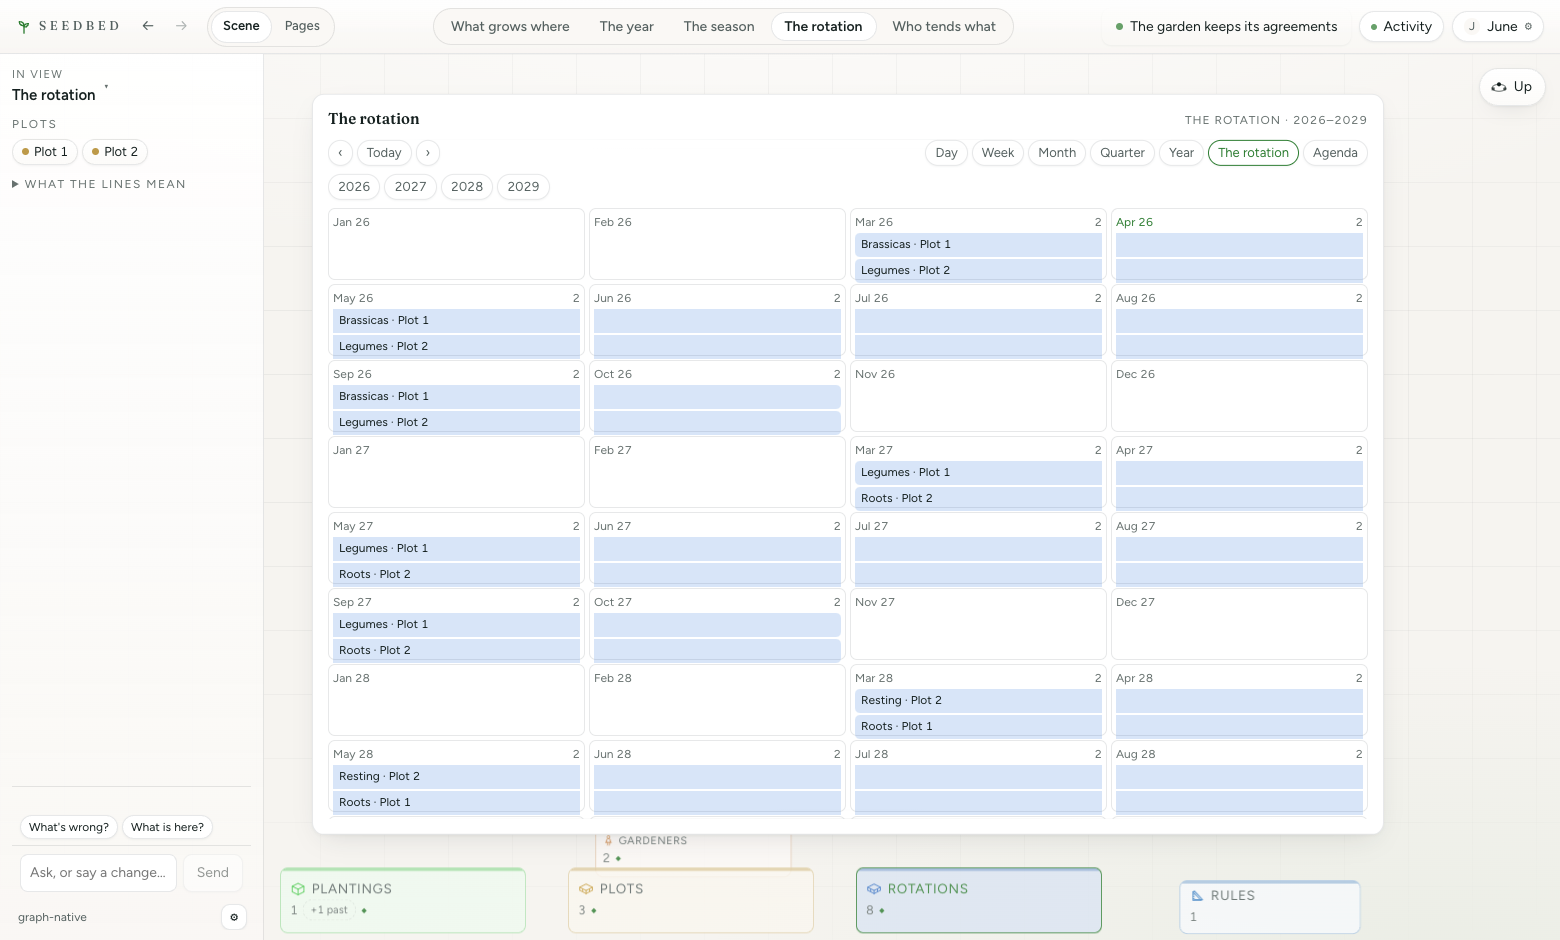
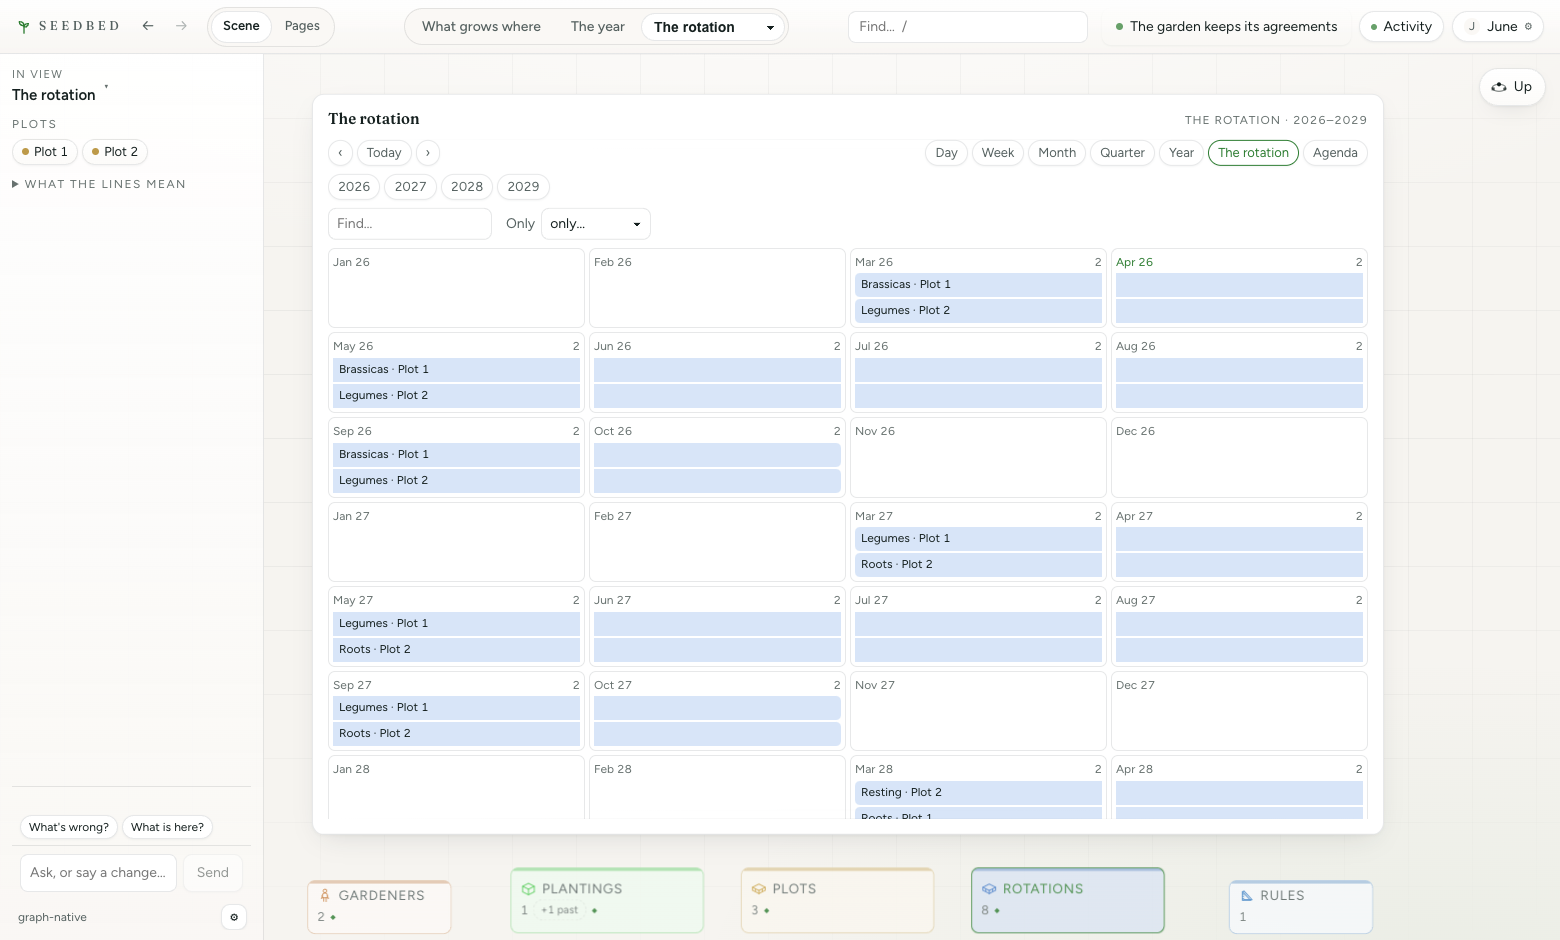
walkthrough: B · the more menu is as wide as what it says

diff --git a/packages/primitives/src/places.tsx b/packages/primitives/src/places.tsx
@@ -56,7 +56,15 @@ export function Places<S extends AnySchema>({ compact = false }: { compact?: boo
       let fit = 0;
       for (let i = 0; i < places.length; i += 1) {
         const next = used + (sizes[i] ?? 0) + (i > 0 ? 2 : 0);
-        const reserve = i < places.length - 1 ? MORE : 0;
+        /*
+         * THE MORE MENU IS AS WIDE AS WHAT IT MAY SAY. Standing on a place it
+         * holds, the select shows that place's name, not "+2 more" — and
+         * "The rotation" is wider than the 92 pixels kept for it, so the
+         * row ran seven pixels past its own edge. Keep room for the widest
+         * name it could show, and the chevron beside it.
+         */
+        const reserve =
+          i < places.length - 1 ? Math.max(MORE, ...sizes.slice(i + 1, places.length).map((width) => (width ?? 0) + 14)) : 0;
         if (next + reserve > room) break;
         used = next;
         fit = i + 1;

diff --git a/docs/walkthrough-findings.md b/docs/walkthrough-findings.md
@@ -3694,3 +3694,21 @@ vehicles, dozens of customers and deals.
   model performance”": the words dropped every one-letter word, and Model
   Y is not Model. Fixed in "walkthrough: C · Model Y is not Model", with
   a third case in the same file (verified failing without it).
+
+### W-142 · The places row runs seven pixels past its edge on the rotation
+- stage: B (carried from the fifth walk, found by `pnpm survey` at the end of the stage) · face: scene (the bar) · width: 1560 · scheme: light and dark
+- expected: `survey` — every screen clean
+- actual: `seedbed/rotation`, both schemes: the Places `nav` overflowed by
+  7px ("What grows where · The year · The season · The ro…", with "The
+  rotation" behind the edge). The row holds as many pills as fit and puts
+  the rest in a "more" select, keeping 92 pixels for it; standing on a
+  place that is in the menu, the select shows that place's name — "The
+  rotation", wider than 92 — so the row overflowed exactly when you were
+  on it. The fifth walk tried a fix that did not clear it.
+- where it belongs: `packages/primitives/src/places.tsx`
+- harness that should have caught it: `survey` did, every run since the
+  rotation became a place
+- status: fixed in "walkthrough: B · the more menu is as wide as what it
+  says" · the row keeps room for the widest name the menu could show.
+  Criterion: the existing `survey` (32 of 34 screens clean before, 34 of 34
+  after; `pnpm verify survey` holds).

diff --git a/.changeset/the-more-menu-is-as-wide-as-what-it-says.md b/.changeset/the-more-menu-is-as-wide-as-what-it-says.md
@@ -1,0 +1,5 @@
+---
+"@graview/primitives": patch
+---
+
+The places row keeps room for what its "more" menu may say. Standing on a place the row could not hold, the menu shows that place's name rather than "+2 more" — and the row had kept 92 pixels for it, so on Seedbed's rotation "The rotation" ran the row seven pixels past its own edge in both schemes. The row now keeps room for the widest name the menu could show.
